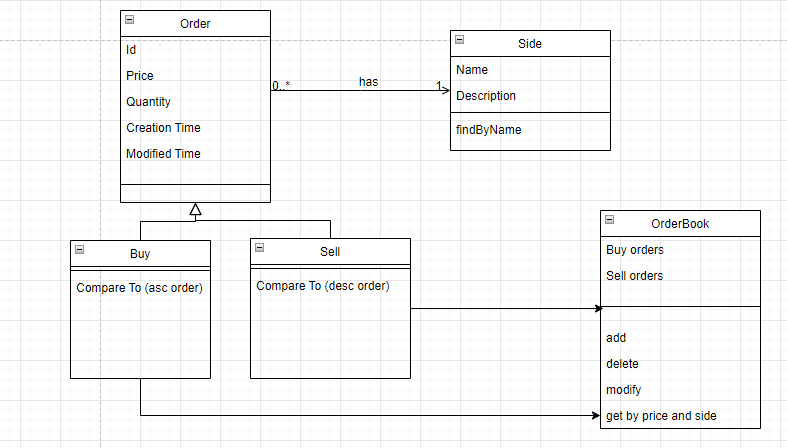
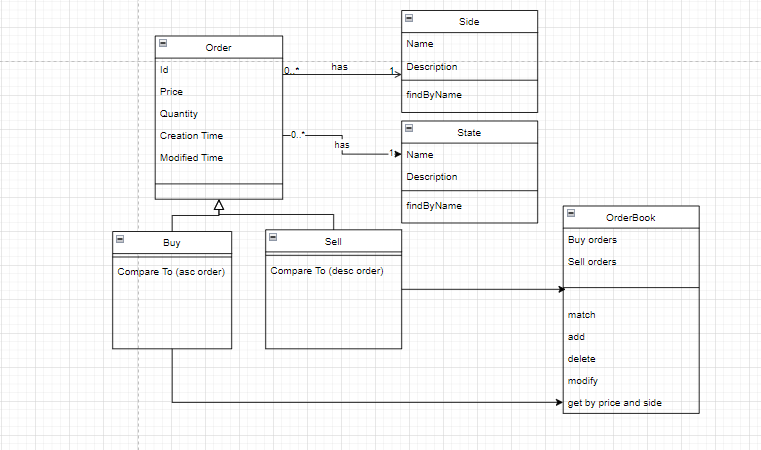
matching engine

diff --git a/src/OrderBook.java b/src/OrderBook.java
@@ -10,51 +10,92 @@ public class OrderBook {
 
         OrderBook orderBook = new OrderBook();
 
-        orderBook.add(20.0, 5, Side.BUY, null);
-        orderBook.add(30.0, 3, Side.BUY, null);
-        orderBook.add(33.0, 9, Side.BUY, null);
-        orderBook.add(35.0, 3, Side.BUY, null);//should be first buy order
-        orderBook.add(100.0, 4, Side.SELL, null);//should be first sell order
-        orderBook.add(200.00, 10, Side.SELL, null);
-        orderBook.add(120.0, 7, Side.SELL, null);
+        orderBook.add(20.0, 5, Side.BUY);
+        orderBook.add(30.0, 3, Side.BUY);
+        orderBook.add(33.0, 9, Side.BUY);
+        orderBook.add(35.0, 3, Side.BUY);//should be first buy order
+        orderBook.add(100.0, 4, Side.SELL);//should be first sell order
+        orderBook.add(200.00, 10, Side.SELL);
+        orderBook.add(120.0, 7, Side.SELL);
         System.out.println("buyLimitOrderBook Order Book " + orderBook.buyLimitOrderBook);
         System.out.println("sellLimitOrderBook Order Book " + orderBook.sellLimitOrderBook);
 
-        //modify buy order for 33.0rand to quantity 6
-        orderBook.buyLimitOrderBook.stream().filter(o -> o.getPrice().equals(33.0)).findFirst()
-                .ifPresent(order -> orderBook.modify(order.getId(), 6));
+//        //modify buy order for 33.0rand to quantity 6
+//        orderBook.buyLimitOrderBook.stream().filter(o -> o.getPrice().equals(33.0)).findFirst()
+//                .ifPresent(order -> orderBook.modify(order.getId(), 6));
 
-        System.out.println("buyLimitOrderBook Order Book " + orderBook.buyLimitOrderBook);
+//        System.out.println("buyLimitOrderBook Order Book " + orderBook.buyLimitOrderBook);
         //delete first sell order -> 100rand
         //now first sell order should be 120rand
-        orderBook.sellLimitOrderBook.stream().filter(o -> o.getPrice().equals(100.0)).findFirst()
-                .ifPresent(orderBook::delete);
-        System.out.println("sellLimitOrderBook Order Book " + orderBook.sellLimitOrderBook);
+//        orderBook.sellLimitOrderBook.stream().filter(o -> o.getPrice().equals(100.0)).findFirst()
+//                .ifPresent(orderBook::delete);
+//        System.out.println("sellLimitOrderBook Order Book " + orderBook.sellLimitOrderBook);
         //add more orders
-        orderBook.add(90.0, 7, Side.SELL, null);
-        orderBook.add(50.0, 8, Side.SELL, null);
-        orderBook.add(20.0, 3, Side.SELL, null);
-        orderBook.add(12.9, 4, Side.SELL, null);//new first sell order
-        orderBook.add(30.0, 3, Side.BUY, null);
-        System.out.println("Final buy order Book " + orderBook.buyLimitOrderBook);
-        System.out.println("Final sell order Book " + orderBook.sellLimitOrderBook);
+        orderBook.add(90.0, 7, Side.SELL);
+        orderBook.add(50.0, 8, Side.SELL);
+        orderBook.add(20.0, 3, Side.SELL);
+        orderBook.add(12.9, 4, Side.SELL);
+        orderBook.add(30.0, 3, Side.BUY);
+        orderBook.add(90.0, 3, Side.SELL);
+        System.out.println("Final buy order Book before matching " + orderBook.buyLimitOrderBook);
+        System.out.println("Final sell order Book before matching " + orderBook.sellLimitOrderBook);
+        System.out.println("sell order Book by price and side " + orderBook.getOrderByPriceAndSide(90.0, Side.SELL));
         System.out.println("buy order Book by price and side " + orderBook.getOrderByPriceAndSide(30.0, Side.BUY));
-        System.out.println("sell order Book by price and side " + orderBook.getOrderByPriceAndSide(12.9, Side.SELL));
 
-        //should print an error message.
-        orderBook.add(30.0, 0, Side.BUY, null);
+        //should print an error message and not add to order book due to quantity being 0
+        //Error: invalid quantity or side input. Please check values and try again.
+        orderBook.add(30.0, 0, Side.BUY);
+        Order sellOrder = new SellOrder(30.0, 10, Side.SELL);
+        orderBook.match(sellOrder);
+        System.out.println("Final buy order Book after matching " + orderBook.buyLimitOrderBook);
+        System.out.println("Remaining to be matched by price after matching " + sellOrder);
+
+        Order buyOrder = new BuyOrder(90.0, 11, Side.BUY);
+        orderBook.match(buyOrder);
+        //first entry should be an open buy order at 90rand with quantity of 1
+        System.out.println("Final sell order Book after matching " + orderBook.sellLimitOrderBook);
+        System.out.println("Remaining to be matched by price after matching " + buyOrder);
+
     }
 
-    private void add(Double price, int quantity, Side side, LocalDateTime previousCreationTime) {
+    protected void match(Order order) {
+        try {
+            Side oppositeSide = Side.getOppositeSide(order.getSide());
+            SortedSet<Order> orders = getOrderByPriceAndSide(order.getPrice(), oppositeSide);
+            System.out.println("orders " + orders);
+            if (orders != null) {
+                for (Order matchOrder : orders) {
+                    int currentQuantity = matchOrder.getCurrentQuantity();
+                    int quantity = order.getCurrentQuantity();
+                    modify(matchOrder.getId(), quantity);
+
+                    order.setCurrentQuantity(Math.max(quantity - currentQuantity, 0));
+                    order.setModifiedTime(LocalDateTime.now());
+                    if (order.getCurrentQuantity() == 0) { //once order quantity fully match exit
+                        break;
+                    }
+                }
+                //if order not fully matched add it to the order book ordering by price and
+                //modified date, so it can than be matched as well
+                if (order.getCurrentQuantity() != 0) {
+                    add(order.getPrice(), order.getCurrentQuantity(), order.getSide());
+                }
+            }
+        } catch (Exception e) {
+            System.out.println("Error removing order.");
+        }
+    }
+
+    private void add(Double price, int quantity, Side side) {
         try {
             if (Side.findByName(side.name()) != null && quantity > 0) {
                 switch (side) {
                     case BUY:
-                        BuyOrder buyOrder = new BuyOrder(price, quantity, side, previousCreationTime);
+                        BuyOrder buyOrder = new BuyOrder(price, quantity, side);
                         buyLimitOrderBook.add(buyOrder);
                         break;
                     case SELL:
-                        SellOrder sellOrder = new SellOrder(price, quantity, side, previousCreationTime);
+                        SellOrder sellOrder = new SellOrder(price, quantity, side);
                         sellLimitOrderBook.add(sellOrder);
                         break;
                     default:
@@ -87,12 +128,19 @@ public class OrderBook {
 
     private void modify(UUID id, int newQuantity) {
         try {
-            Order order = buyLimitOrderBook.stream().filter(o -> o.getId().equals(id)).findFirst().orElse(null);
+            Order order = sellLimitOrderBook.stream().filter(o -> o.getId().equals(id)).findFirst().orElse(null);
+            if (order == null)
+                order = buyLimitOrderBook.stream().filter(o -> o.getId().equals(id)).findFirst().orElse(null);
 
             if (order != null) {
-                delete(order);
-                int quantity = order.getQuantity() == newQuantity ? order.getQuantity() : newQuantity;
-                add(order.getPrice(), quantity, order.getSide(), order.getCreationTime());
+                order.setCurrentQuantity(Math.max(order.getCurrentQuantity() - newQuantity, 0));
+                order.setModifiedTime(LocalDateTime.now());
+                if (order.getCurrentQuantity() == 0) {
+                    order.setState(State.FULLY_FILLED);
+                    delete(order);
+                } else {
+                    order.setState(State.PARTIALLY_FILLED);
+                }
             } else {
                 System.out.println("Error: order does not exist.");
             }
@@ -101,15 +149,18 @@ public class OrderBook {
         }
     }
 
-    private Set<Order> getOrderByPriceAndSide(double price, Side side) {
+    private SortedSet<Order> getOrderByPriceAndSide(Double price, Side side) {
+
         try {
             switch (side) {
                 case BUY:
-                    return buyLimitOrderBook.stream().filter(o -> o.getPrice().equals(price)).collect(Collectors.toSet());
+                    return buyLimitOrderBook.parallelStream().filter(o -> Double.compare(o.getPrice(), price) == 0)
+                            .collect(Collectors.toCollection(TreeSet::new));
                 case SELL:
-                    return sellLimitOrderBook.stream().filter(o -> o.getPrice().equals(price)).collect(Collectors.toSet());
+                    return sellLimitOrderBook.parallelStream().filter(o -> Double.compare(o.getPrice(), price) == 0)
+                            .collect(Collectors.toCollection(TreeSet::new));
                 default:
-                    System.out.println("Error invalid side.");
+                    throw new IllegalArgumentException("Error Invalid side: " + side);
             }
         } catch (Exception e) {
             System.out.println("Error retrieving orders.");

diff --git a/src/Order.java b/src/Order.java
@@ -5,23 +5,22 @@ import java.util.UUID;
 public class Order {
     private UUID Id;
     private Double price;
-    private int quantity;
+    private int initialQuantity;
+    private int currentQuantity;
+    private State state;
     private Side side;
     private LocalDateTime creationTime;
     private LocalDateTime modifiedTime;
 
-    public Order(Double price, int quantity, Side side, LocalDateTime previousCreationTime) {
+    public Order(Double price, int initialQuantity, Side side) {
         this.Id = UUID.randomUUID();
         this.price = price;
-        this.quantity = quantity;
+        this.initialQuantity = initialQuantity;
+        this.currentQuantity = this.initialQuantity;
         this.side = side;
-        if (creationTime == null) { //new order
-            this.creationTime = LocalDateTime.now();
-            this.modifiedTime = this.creationTime;
-        } else {
-            this.creationTime = previousCreationTime;
-            this.modifiedTime = LocalDateTime.now();
-        }
+        this.state = State.OPEN;
+        this.creationTime = LocalDateTime.now();
+        this.modifiedTime = this.creationTime;
     }
 
     public UUID getId() {
@@ -32,32 +31,28 @@ public class Order {
         return price;
     }
 
-    public void setPrice(Double price) {
-        this.price = price;
+    public int getCurrentQuantity() {
+        return currentQuantity;
     }
 
-    public int getQuantity() {
-        return quantity;
-    }
-
-    public void setQuantity(int quantity) {
-        this.quantity = quantity;
+    public void setCurrentQuantity(int currentQuantity) {
+        this.currentQuantity = currentQuantity;
     }
 
     public Side getSide() {
         return side;
     }
 
-    public void setSide(Side side) {
-        this.side = side;
-    }
-
-    public LocalDateTime getCreationTime() {
-        return creationTime;
+    public void setState(State state) {
+        this.state = state;
     }
 
     public LocalDateTime getModifiedTime() {
         return modifiedTime;
+    }
+
+    public void setModifiedTime(LocalDateTime modifiedTime) {
+        this.modifiedTime = modifiedTime;
     }
 
     @Override
@@ -78,7 +73,9 @@ public class Order {
         return "Order{" +
                 "Id=" + Id +
                 ", price=" + price +
-                ", quantity=" + quantity +
+                ", initialQuantity=" + initialQuantity +
+                ", currentQuantity=" + currentQuantity +
+                ", state=" + state +
                 ", side=" + side +
                 ", creationTime=" + creationTime +
                 ", modifiedTime=" + modifiedTime +

diff --git a/src/State.java b/src/State.java
@@ -1,0 +1,21 @@
+public enum State {
+    OPEN("Open"),
+    PARTIALLY_FILLED("Partially Filled"),
+    FULLY_FILLED("Fully Filled");
+    public final String description;
+
+    private State(String description) {
+        this.description = description;
+    }
+
+    public static State findByName(String name) {
+        State result = null;
+        for (State state : values()) {
+            if (state.name().equalsIgnoreCase(name)) {
+                result = state;
+                break;
+            }
+        }
+        return result;
+    }
+}

diff --git a/src/SellOrder.java b/src/SellOrder.java
@@ -2,8 +2,8 @@ import java.time.LocalDateTime;
 
 public class SellOrder extends Order implements Comparable<SellOrder> {
 
-    public SellOrder(Double price, int quantity, Side side, LocalDateTime previousCreationTime) {
-        super(price, quantity, side, previousCreationTime);
+    public SellOrder(Double price, int initialQuantity, Side side) {
+        super(price, initialQuantity, side);
     }
 
     @Override

diff --git a/src/BuyOrder.java b/src/BuyOrder.java
@@ -1,8 +1,9 @@
 import java.time.LocalDateTime;
 
 public class BuyOrder extends Order implements Comparable<BuyOrder> {
-    public BuyOrder(Double price, int quantity, Side side, LocalDateTime previousCreationTime) {
-        super(price, quantity, side, previousCreationTime);
+
+    public BuyOrder(Double price, int initialQuantity, Side side) {
+        super(price, initialQuantity, side);
     }
 
     @Override

diff --git a/src/Side.java b/src/Side.java
@@ -18,4 +18,14 @@ public enum Side {
         }
         return result;
     }
+    public static Side getOppositeSide(Side side){
+        switch (side) {
+            case BUY:
+                return Side.SELL;
+            case SELL:
+                return Side.BUY;
+            default:
+                return null;
+        }
+    }
 }

diff --git a/README.md b/README.md
@@ -9,9 +9,9 @@ This will ensure that searching is faster as it is faster to search sorted fata.
 ![img.png](img.png)
 
 **The Order book should keep all distinct orders ordered on their price level** -
-I decided to use a sorted set for this as a set does not store duplicates and I implemented
-the compareTo method uses price to ensure that any interaction with the set results in 
-a sorted dataset by price.
+I decided to use a sorted set for this as a set does not store duplicates or null values
+and I implemented the compareTo method uses price to ensure that any interaction with the 
+set results in a sorted dataset by price.
 
 **When an Order is added a unique ID should be generated for each order** -
 I opted to use Java's inbuilt UUID unique ID generator to ensure distinct IDs each time. 
@@ -20,15 +20,13 @@ to set it manually. To further ensure the integrity of the ID I did not add a se
 'system' generated.
 
 **The delete operation should take as input the order ID** -
-amended the delete method to take in an Order instead so I can access the order side and only remove the order 
+amended the delete method to take in an Order instead, so I can access the order side and only remove the order 
 from the corresponding set.
 
 **The modify operation should only allow for modification of the quantity and take in as parameters 
 the id and the new quantity, this will cause losing the priority of the original order** -
-As modification should result in a change of priority of the orders I decided to rather delete the order
-that is being modified, Which will result in a sorted set again, then insert a new order copying unchanged 
-values from the old order causing to reestablish a new priority. But to keep the integrity of the data I will
-use the previous order's creation date and update the modified date on the new order. 
+As modification should result in a change of priority(based on modified date) of the orders I amend the order quantity 
+and update the modified date of that order to establish a new order in the set. 
 
 **c. Data Structures**
 Sorted set - set does not allow duplicates as required and since it is sorted
@@ -38,5 +36,13 @@ hash table structure.
 
 **The Order book should allow users to access all orders at a given price level & side; 
 ordered by their priorities** -
-for this action, I decided to use a set to still ensure distinct values. Order will be maintained due to 
-the main sorted set collection that is being filtered to create this list. 
+for this action, I decided to use a parallel stream to filter the original sets by price. 
+Order will be maintained due to the main sorted set collection that is being filtered to create this list. 
+
+**Matching Engine**
+for this action I first get the orders to be matched by price abd side i.e. if a Sell order comes in 
+I need buy orders that with the same price I can match with. Fully matched orders will then have their state
+set to fully filled and will be removed from the order list. Partially filled orders will be match and with the new 
+remaining quantity will be kept in the set with their nre priority as the modified date will be changed. 
+Should an order that came in have remaining quantity it will then be added to the corresponding order book so it to can be 
+matched based on price and priority should a new order come in. 
